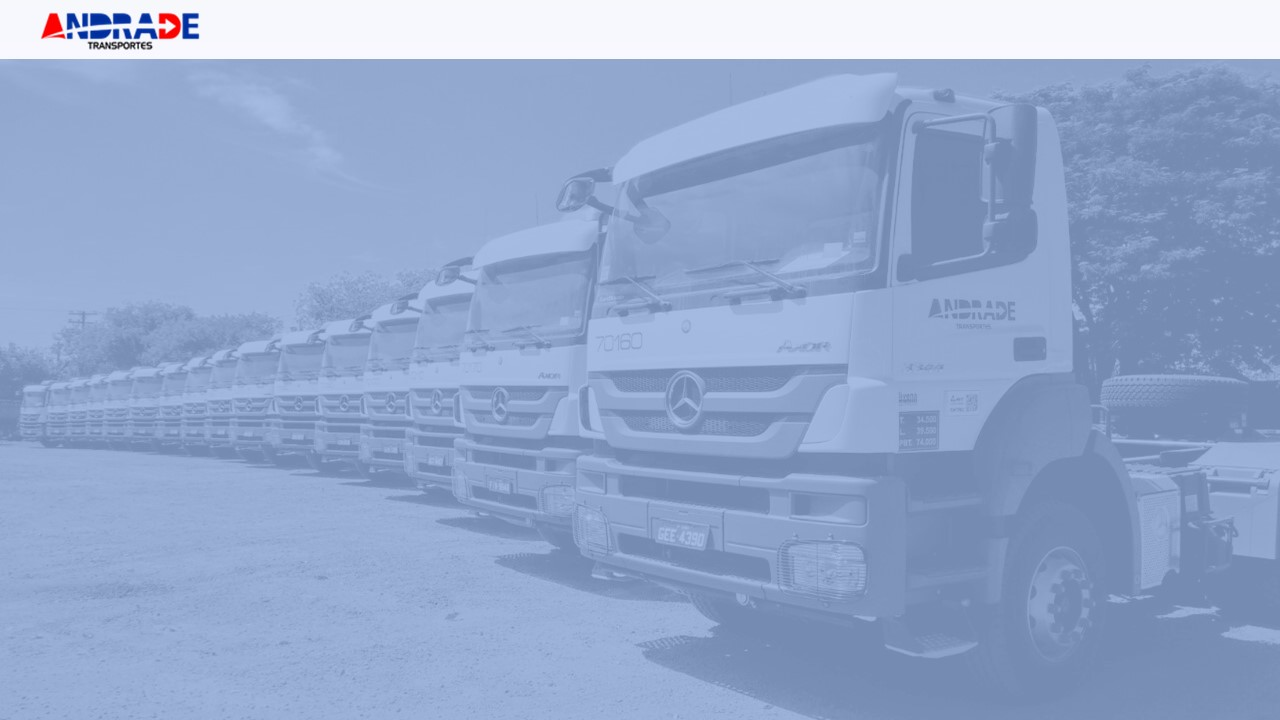
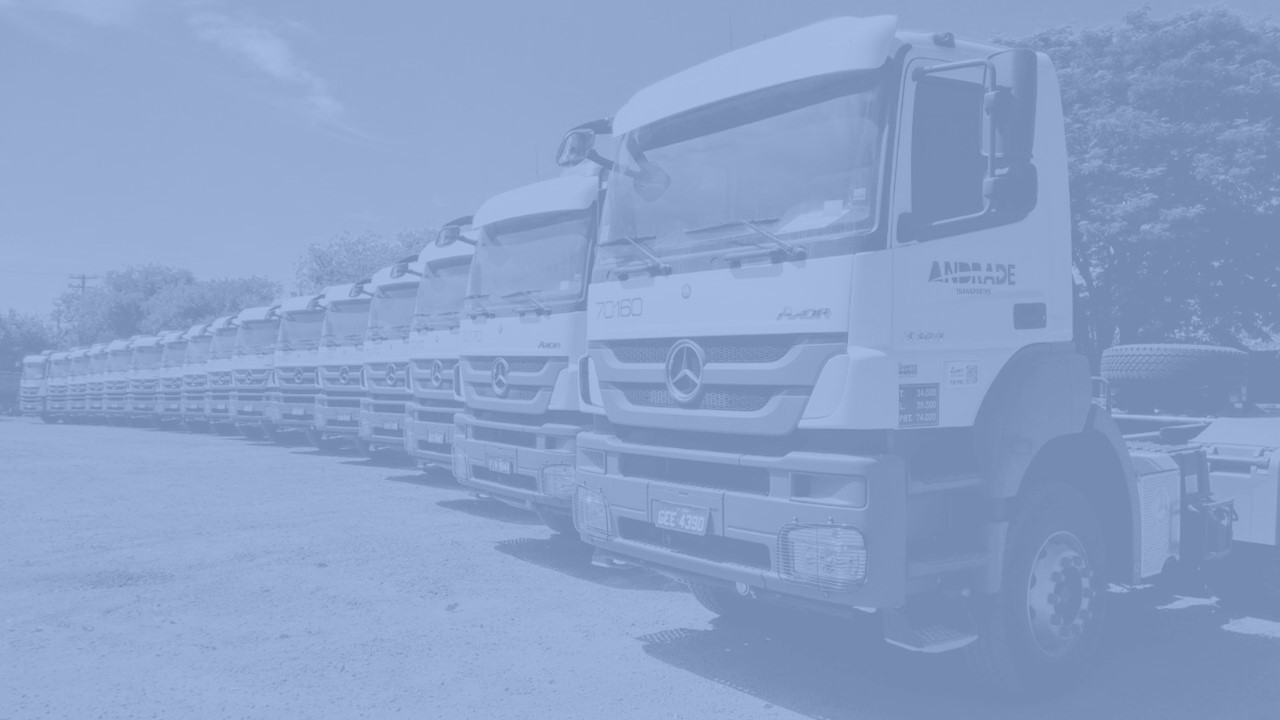
alteração

diff --git a/templates/index.html b/templates/index.html
@@ -175,9 +175,31 @@
                 background-size: auto; /* Adjust background size for mobile */
             }
         }
+
+        .background-rectangle {
+            position: absolute;
+            top: 0;
+            left: 0;
+            width: 100%;
+            height: 10%;
+            background-color: white; /* Cor do retângulo */
+            z-index: -1; /* Coloca o retângulo atrás do conteúdo */
+        }
+
+        .logo {
+            position: absolute;
+            top: 5.4%;
+            left: 20px;
+            transform: translateY(-50%);
+            width: 150px; /* Ajuste o tamanho conforme necessário */
+            height: auto;
+            z-index: 1; /* Certifique-se de que a imagem fique acima do retângulo */
+
     </style>
 </head>
 <body>
+<div class="background-rectangle"></div>
+<img class="logo" src="{{ url_for('static', filename='Andrade.png') }}" alt="Logo">
 <h1>Portal Consulta Remuneração</h1>
 <div class="container">
     <form id="meuFormulario" action="/index" method="post">

diff --git a/templates/cadastro.html b/templates/cadastro.html
@@ -63,7 +63,7 @@
         }
 
         #form-container {
-            height: 100vh;
+            height: 130vh;
             display: flex;
             justify-content: flex-end; /* Alinhar para a direita */
             margin-right: 5%; /* Adicionando margem direita */
